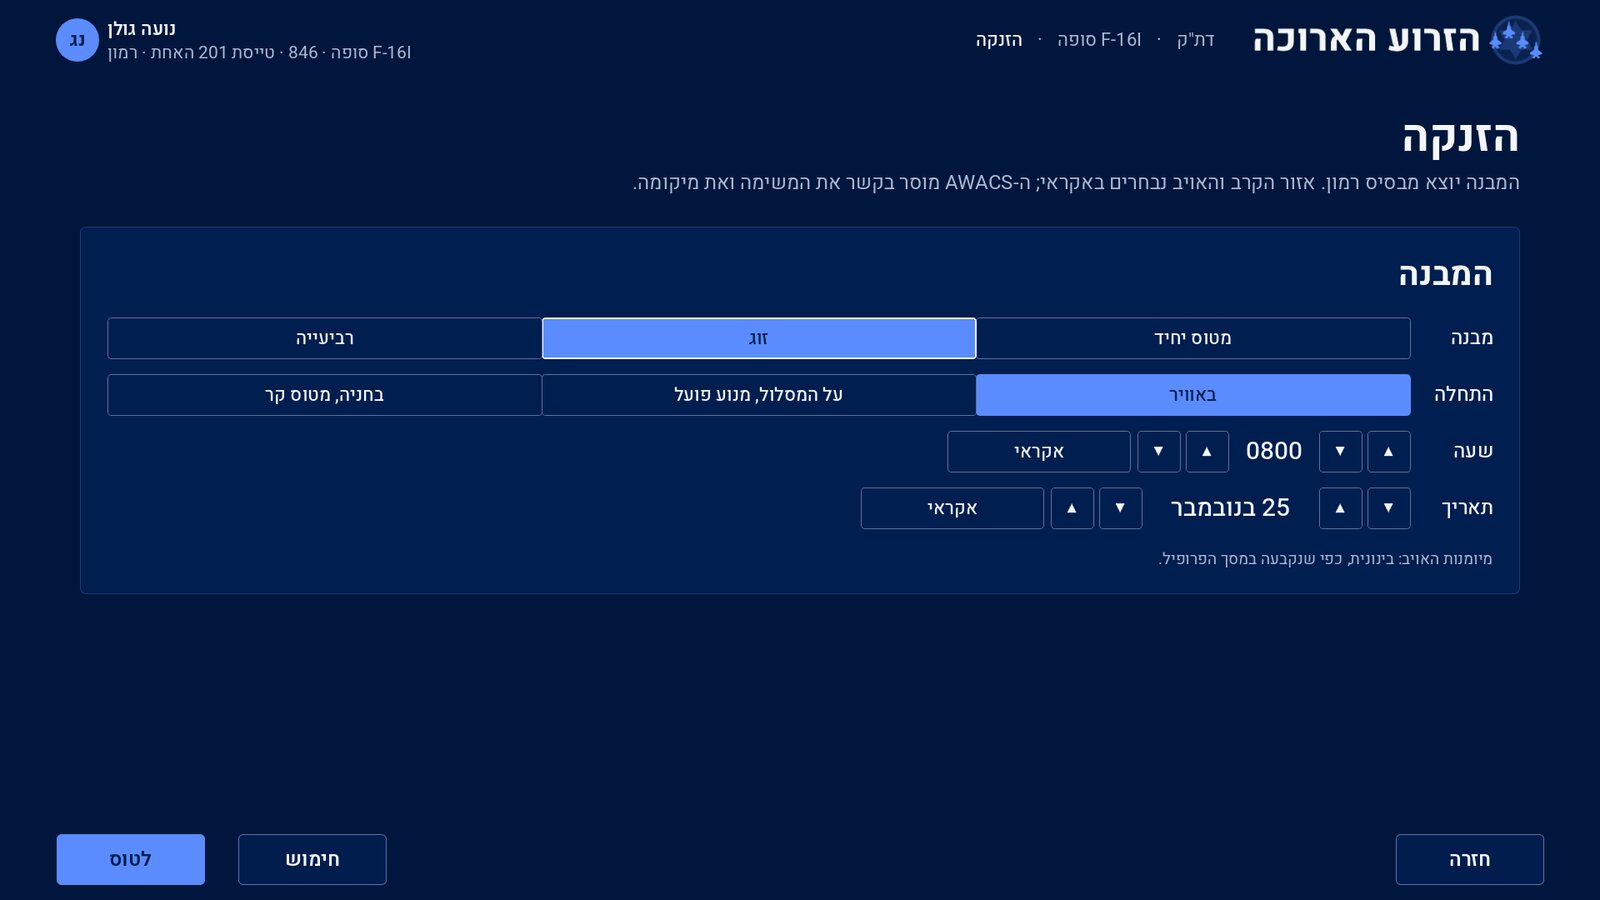
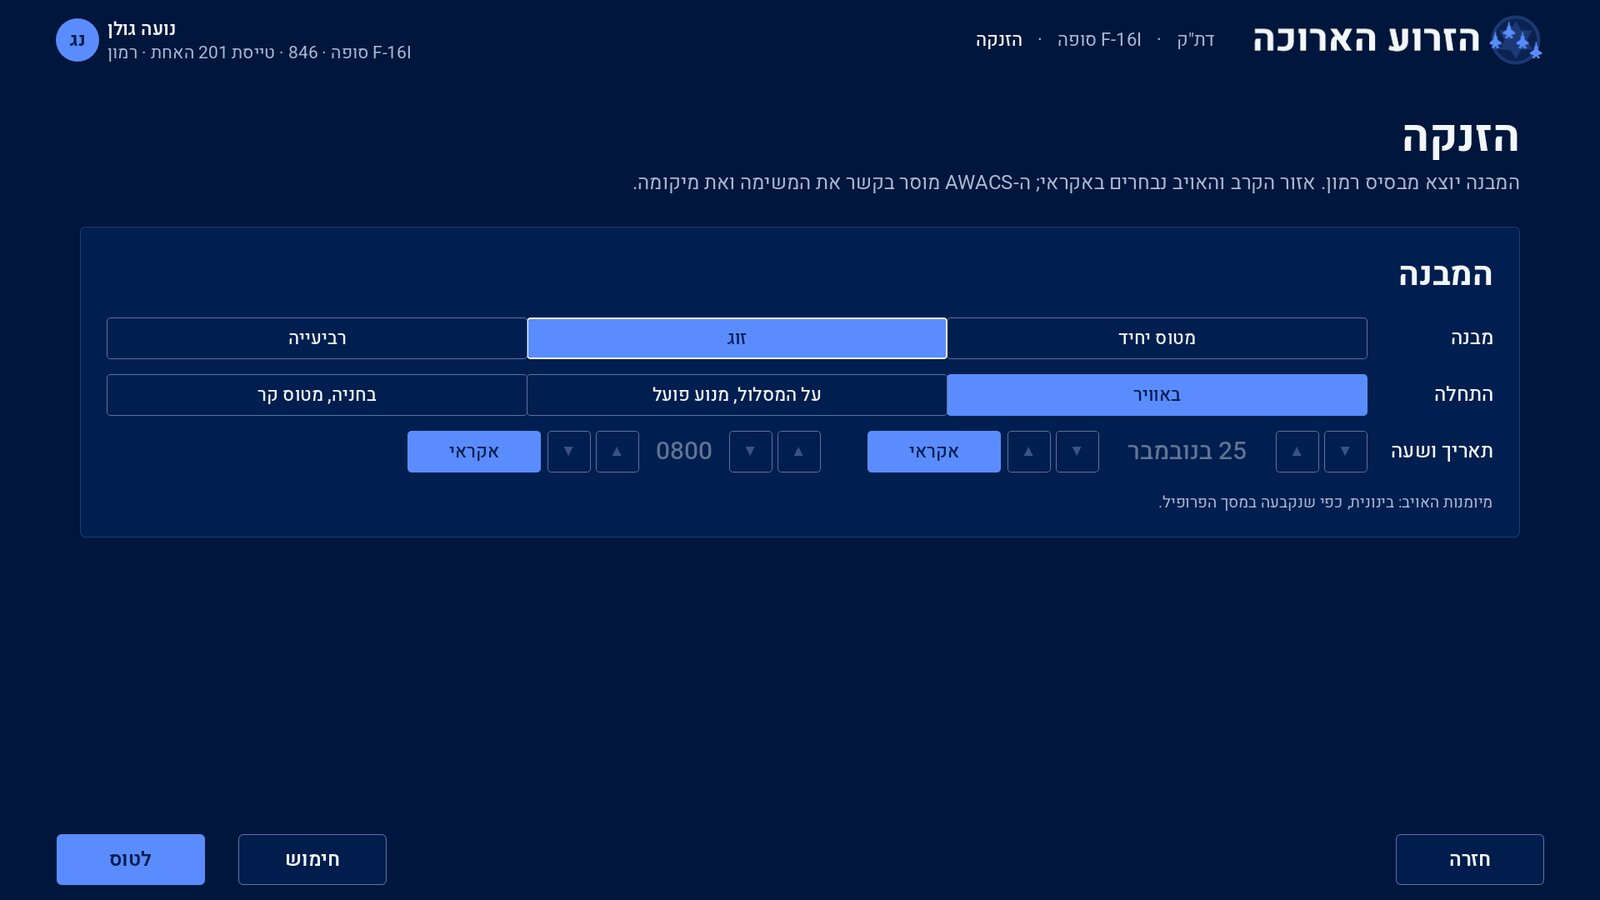
Scramble: the date and the time on one row, date first, both Random as the screen opens
The user, 25 Nov 2026, on A98: "put the date and taim on the same row, date first, by default both should be
random". The Scramble screen's Time and Date rows become one row, Date and time (תאריך ושעה): the date's arrows,
the date and its Random, a gap, then the time's arrows, the time and its Random. Each opening of the screen starts
with both Randoms on, 0800 today under them (free_combat_page.gd reset); nothing is stored, as before. The unused
fc_time / fc_date strings went. No Rust.

Tests: test_free_combat.gd (one row, date first, both Random first, the steps once Random is off, reopened Random).
Docs: front-end.md §2.1, ai.md §23, status; the game manual en + he (the row, the screen's picture).

Claude-Session: https://claude.ai/code/session_01HfoaXprFkEdj69GCkKmySt

diff --git a/modern-iaf/docs/front-end.md b/modern-iaf/docs/front-end.md
@@ -171,24 +171,27 @@ placed in flight ([../../docs/ai.md](../../docs/ai.md) §23).
 - **The screen:** the title, Scramble, and under it the home base the flight flies from (the base of the jet picked in
   the Hangar) and one line on what comes: the fight's area and the enemy drawn at random, the task and where from the
   AWACS. One panel, Your flight, of rows, each row a label and its segments, the one picked lit: Flight (Alone, Pair,
-  Four-ship), Start (In the air; On the runway, engine running; Cold, at parking), Time and Date (below). Under the
+  Four-ship), Start (In the air; On the runway, engine running; Cold, at parking), Date and time (below). Under the
   rows one line names the enemy's skill, the Pilot screen's own value (docs/ai.md §17: "Enemy skill: Medium, as set on
   the Pilot screen."); it sizes the enemy, one to three threats beside the task's target.
 - **His round-3 words** (2026-11-24, A81: "why we choose area if in all other places the area is tied to the
   airplane? why we choose a enemies skill if that already by pilot?"; then "allow it to start in cold, runway or in
   air"): the Area and Enemy skill rows went; the Start row has the three starts, in the air by default.
-- **The Time row** (the user, 25 November 2026: "Add to scramble options: what time of the day is it. Or it should be
+- **The time** (the user, 25 November 2026: "Add to scramble options: what time of the day is it. Or it should be
   random, wdyt?", then "No, do a specific military time to choose", then "And random"): the flight's start time, Israel
   time, as 24-hour military time HHMM (0630, 1415, 2200; `IafFreeCombat.clock`), left to right in both languages as the
   digits read: the hour's ▼ ▲ (an hour), the time, the minutes' ▼ ▲ (five minutes; round the clock,
   `IafFreeCombat.time_step`), then the Random toggle. Random dims the time and its arrows and keeps the set time for
   when it is off again; Fly draws the time from the Scramble's seed, any five-minute step of the day
-  (`IafFreeCombat.start_time`). The flight starts at that time (misc `0x460`, `flight/fly.gd prepare_free`) on the Date
-  row's day, so the sun, the sky, the city lights and the night cockpit follow it ([terrain.md](terrain.md) §17). The
+  (`IafFreeCombat.start_time`). The flight starts at that time (misc `0x460`, `flight/fly.gd prepare_free`) on the
+  date's day, so the sun, the sky, the city lights and the night cockpit follow it ([terrain.md](terrain.md) §17). The
   notebook's DATA page shows the flight's start time (the drawn one under Random). The AWACS's calls state no time (none
   of the AWACS calls we have sources for names one: modern-iaf/docs/research/radio-terms.md). Hebrew שעה, the notebook's
   term for the same thing (no other term was found in IAF usage for a start time's row).
-- **The Date row** (the user, 25 November 2026: "Maybe we should add season, or date also?", then "Yes, but what about
+- **One row, date first** (the user, 25 November 2026: "put the date and taim on the same row, date first, by default
+  both should be random"): the date and the time share one row, Date and time (תאריך ושעה): the date's arrows,
+  the date and its Random, a gap, then the time's arrows, the time and its Random (`free_combat_page.gd` `_when_row`).
+- **The date** (the user, 25 November 2026: "Maybe we should add season, or date also?", then "Yes, but what about
   picking a year?", answered: no year now, the current year): the flight's day of this year, shown as the day and its
   month ("25 November", "25 בנובמבר"; `IafFreeCombat.month_day`), the day's ▼ ▲ (a day, round the year), the date, the
   month's ▼ ▲ (a month, the day cut to the month's last: `IafFreeCombat.date_step`), then Random; in Hebrew the row
@@ -200,8 +203,8 @@ placed in flight ([../../docs/ai.md](../../docs/ai.md) §23).
   notebook's DATA page shows the date ("21 December 2026"). Hebrew תאריך; the months by their Hebrew names in use
   (ינואר … דצמבר).
 - **Not remembered** (the user, 25 November 2026: "No need to remember last choice"): each opening of the screen from
-  the Missions screen starts at 0800 today, both Randoms off (`free_combat_page.gd` `reset`, `when`); a step or Random
-  holds for that visit (Arming and back keep it) and is never stored in the settings.
+  the Missions screen starts with both Randoms on, under them 0800 today (`free_combat_page.gd` `reset`, `when`); a
+  step or Random holds for that visit (Arming and back keep it) and is never stored in the settings.
 - **The fight's area** is drawn at Fly with the enemy (`flight/fly.gd free_area`, `IafFreeCombat.area`): one of the
   theatre's bases other than the home base, alike from those within 180 km of it (inferred: a short sortie; from Ramon
   Nevatim, Hatzerim or Tel Nof, from Ramat David Tel Nof, Hatzerim or Nevatim). The AWACS's call says where.
@@ -216,7 +219,7 @@ placed in flight ([../../docs/ai.md](../../docs/ai.md) §23).
   up in pairs on the home base's runway, Kidon 1-2 15 m left of the lead, the second element 60 m behind, every
   engine running (the start rule's 100 m of the lineup point, docs/ai.md §7.1), and the take-off in pairs, docs/ai.md
   §8.7).
-- **Keyboard:** Tab and Shift+Tab go through the segments row by row (the Time and Date rows' arrows and Randoms too),
+- **Keyboard:** Tab and Shift+Tab go through the segments row by row (the Date and time row's arrows and Randoms too),
   then Back, Arming, Fly; the arrows move by place; Enter or Space picks or steps.
 - **The flight:** the AWACS gives the task once the jet is in the air ("Kidon 1, attack the convoy, bearing 040, 25
   miles, free to engage") and again every minute while its target lives. It is not scored and stores no sortie; it

diff --git a/modern-iaf/docs/status.md b/modern-iaf/docs/status.md
@@ -658,13 +658,14 @@ What works and what is open, by work item ([plan.md](plan.md)). Newest first.
 - **Scramble (2026-11-24, [front-end.md](front-end.md) §2.1, [../../docs/ai.md](../../docs/ai.md) §23):** the Scramble
   card (הזנקה) opens a screen of one panel: the flight (alone, pair, four-ship) and the start (in the air, the default;
   on the runway, engines running, lined up in pairs; cold at parking), the home base named, a line naming the Pilot
-  screen's enemy skill; Arming and Fly. The Time row (25 November): the start time in 24-hour military time (HHMM, an
-  hour and five-minute steps) or Random (drawn at Fly from the seed, shown on the notebook's DATA page); the Date row
-  (25 November): a day and month this year, or Random; the flight starts then, Israel time with summer time, so the
+  screen's enemy skill; Arming and Fly. The Date and time row (25 November), date first: a day and month this year,
+  or Random, then the start time in 24-hour military time (HHMM, an hour and five-minute steps) or Random (drawn at Fly
+  from the seed, shown on the notebook's DATA page); the flight starts then, Israel time with summer time, so the
   sun's path, the day's length and the moon follow the date (the temperature and the weather stay the same in every
-  season). Both start at 0800 today on each opening of the screen, never stored. Fly draws the fight's area (another
-  base within 180 km of the home base, `iaf_ai::free_combat::area`) and the enemy round it (`roll`: the task, its target
-  and one to three more threats by the skill, from MiG-29 pairs on CAP and on alert, the S-300 network, short-range air
+  season). Both start at Random on each opening of the screen (0800 today under it), never stored. Fly draws the
+  fight's area (another base within 180 km of the home base, `iaf_ai::free_combat::area`) and the enemy round it
+  (`roll`: the task, its target and one to three more threats by the skill, from MiG-29 pairs on CAP and on alert,
+  the S-300 network, short-range air
   defence, Shahed-136 drones and a convoy); the air start puts the flight 60 km from the area at 6,000 m. The Area and
   Enemy skill rows went on the user's round-3 word (24 November). The AWACS gives the task by radio once the jet is in
   the air, in English and Hebrew ("Kidon 1, attack the convoy, bearing 040, 25 miles, free to engage"), and every minute

diff --git a/docs/ai.md b/docs/ai.md
@@ -2457,7 +2457,8 @@ start; the area is drawn, the skill is the Pilot screen's. Every distance and ti
     (`year_days`, `month_day`), stepped by a day round the year or a month with the day cut to the month's last
     (`date_step`); `start_day(seed, random, year, doy)` flies the set day, or with Random one drawn from the seed
     alike over the year's days (its own draw). Neither the time nor the date is stored ("No need to remember last
-    choice", the same day): each opening of the screen starts at 0800 today.
+    choice", the same day): each opening of the screen starts with both on Random ("by default both should be
+    random"), 0800 today under them.
 - **In flight** (`modern-iaf/flight/free_combat.gd`, a child of `sim_flight.gd` on a Scramble start): once the ground
   under the jet is loaded it rolls the enemy at the pilot's enemy skill and places the plan in order (the sites, the
   network, the fighters vectored by it, the convoy, the drones), all at that skill (§17). A based pair stands in the
